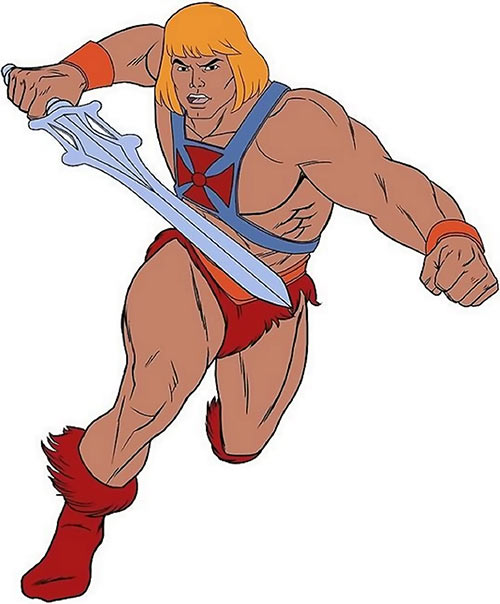
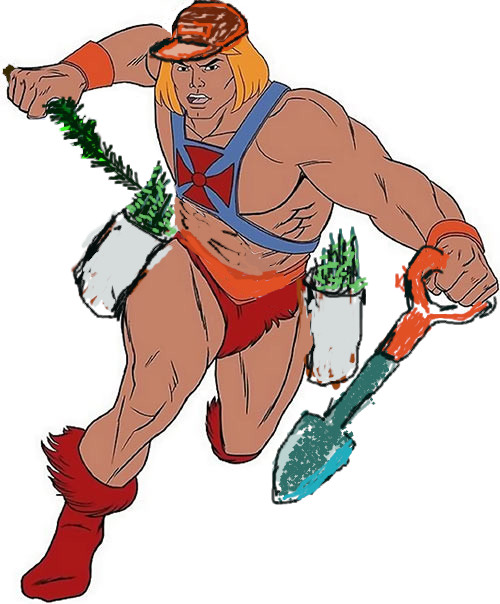
Step-by-step Tally animation is functional

Changed region(s): [[0.06, 0.149, 1.0, 0.8344], [0.3, 0.0, 0.51, 0.1192], [0.0, 0.0894, 0.03, 0.149]]

diff --git a/client/src/components/MainList/MainList.jsx b/client/src/components/MainList/MainList.jsx
@@ -133,10 +133,6 @@ class MainList extends Component {
             fitness={this.state.fitness}
             mandatoryTallyFunction={this.mandatoryTally}
           ></Tally>
-          // I need information from tally
-          // I need to create information in child whi
-          // A function that has a true or false in tally
-          // The
         )}
         <table className="full-list__table">
           <thead className="full-list__header">
@@ -147,13 +143,16 @@ class MainList extends Component {
                 <FaRegHandshake size="1.5em" color="red" /> A BETTER WORKPLACE
               </th>
               <th className="full-list__column--priority">PRIORITY</th>
-              <th className="full-list__column--watched">WATCHED</th>
+              <th className="full-list__column--watched">WATCHED ?</th>
             </tr>
           </thead>
-          <tbody className="full-list__body-wrap--workplace">
+          {/* <tbody className="full-list__body-wrap--workplace"> */}
+            <tbody className={this.mandatoryTally(this.state.aBetterWorkplace)>=3 ? "full-list__body-wrap--workplace" : "full-list__body-wrap--workplace full-list__body-wrap--workplace--hidden"}>
+          {/* <tbody className={this.mandatoryTally(this.state.aBetterWorkplace)>=3 ? "full-list__body-wrap--first-aid" : "full-list__body-wrap--first-aid full-list__body-wrap--first-aid--hidden"}> */}
             {this.state.aBetterWorkplace.map((val) => (
               <tr className="full-list__row" key={val.id}>
-               
+                 {/* <tr className={this.mandatoryTally(this.state.aBetterWorkplace)>=3 ? "full-list__row" key={val.id} : "full-list__row full-list__row--hidden" key={val.id}}> */}
+               {/* <tbody className={this.mandatoryTally(this.state.aBetterWorkplace)>=3 ? "full-list__body-wrap--first-aid" : "full-list__body-wrap--first-aid full-list__body-wrap--first-aid--hidden"}></tbody>  */}
                 <td className="full-list__row--item--mediaType">{val.mediaType}</td>
                 <td className="full-list__row--item--time">{val.min}</td>
                 <td className="full-list__row--item--title">
@@ -180,7 +179,7 @@ class MainList extends Component {
               <th className="full-list__column--time">TIME IN MINUTES</th>
               <th className="full-list__column--title">🚑 FIRST AID</th>
               <th className="full-list__column--priority">PRIORITY</th>
-              <th className="full-list__column--watched">WATCHED</th>
+              <th className="full-list__column--watched">WATCHED ?</th>
             </tr>
             {/* <tbody className="full-list__body-wrap--first-aid"> */}
             {this.state.firstAid.map((val, key) => (
@@ -213,7 +212,7 @@ class MainList extends Component {
               <th className="full-list__column--time">TIME IN MINUTES</th>
               <th className="full-list__column--title">🏊 FITNESS</th>
               <th className="full-list__column--priority">PRIORITY</th>
-              <th className="full-list__column--watched">WATCHED</th>
+              <th className="full-list__column--watched">WATCHED ?</th>
             </tr>
             {/* <tbody className="full-list__body-wrap--fitness"> */}
             {this.state.fitness.map((val, key) => (
@@ -248,7 +247,7 @@ class MainList extends Component {
             firstAid={this.state.firstAid}
             fitness={this.state.fitness}
           ></Tally> */}
-        )}
+        
       </div>
     );
   }

diff --git a/client/src/components/Tally/Tally.js b/client/src/components/Tally/Tally.js
@@ -2,6 +2,17 @@ import React, { Component } from "react";
 import "./Tally.scss";
 import axios from "axios";
 import heMan from "../../assets/images/other/heMan.jpg";
+import no0 from "../../assets/animation/no0.png";
+import no1 from "../../assets/animation/1.png";
+import no2 from "../../assets/animation/no2.png";
+import no3 from "../../assets/animation/no4.png";
+import no4 from "../../assets/animation/no3.png";
+import no5 from "../../assets/animation/no5.png";
+import no6 from "../../assets/animation/no6.png";
+import no7 from "../../assets/animation/no7.png";
+import no8 from "../../assets/animation/no8.png";
+
+
 
 class Tally extends Component {
   state = {};
@@ -91,30 +102,121 @@ class Tally extends Component {
           </p>
         </div>
 
-        {this.state.tally === 7 ? (
+        {this.state.tally === 0 ? (
           <div className="tally__popup">
             <img
               className="tally__image"
-              src={heMan}
+              src={no0}
               alt="descriptive text"
             ></img>
           </div>
         ) : (
           ""
         )}
+
+{this.state.tally === 1 ? (
+          <div className="tally__popup">
+            <img
+              className="tally__image"
+              src={no1}
+              alt="descriptive text"
+            ></img>
+          </div>
+        ) : (
+          ""
+        )}
+
+{this.state.tally === 2 ? (
+          <div className="tally__popup">
+            <img
+              className="tally__image"
+              src={no2}
+              alt="descriptive text"
+            ></img>
+          </div>
+        ) : (
+          ""
+        )}
+
+{this.state.tally === 3 ? (
+          <div className="tally__popup">
+            <img
+              className="tally__image"
+              src={no3}
+              alt="descriptive text"
+            ></img>
+          </div>
+        ) : (
+          ""
+        )}
+
+{this.state.tally === 4 ? (
+          <div className="tally__popup">
+            <img
+              className="tally__image"
+              src={no4}
+              alt="descriptive text"
+            ></img>
+          </div>
+        ) : (
+          ""
+        )}
+
 
 
         {this.state.tally === 5 ? (
           <div className="tally__popup">
             <img
               className="tally__image"
-              src={heMan}
+              src={no5}
               alt="descriptive text"
             ></img>
           </div>
         ) : (
           ""
         )}
+
+{this.state.tally === 6 ? (
+          <div className="tally__popup">
+            <img
+              className="tally__image"
+              src={no6}
+              alt="descriptive text"
+            ></img>
+          </div>
+        ) : (
+          ""
+        )}
+
+
+
+
+        {this.state.tally === 7 ? (
+          <div className="tally__popup">
+            <img
+              className="tally__image"
+              src={no7}
+              alt="descriptive text"
+            ></img>
+          </div>
+        ) : (
+          ""
+        )}
+
+{this.state.tally === 8 ? (
+          <div className="tally__popup">
+            <img
+              className="tally__image"
+              src={no8}
+              alt="descriptive text"
+            ></img>
+          </div>
+        ) : (
+          ""
+        )}
+
+
+        
         {this.state.tally === 9 ? (
           <div className="tally__popup">
             <img

diff --git a/client/src/components/MainList/MainList.scss b/client/src/components/MainList/MainList.scss
@@ -8,15 +8,15 @@
   width: 100vw;
 
   &__table {
-    width: 80vw;
+    width: 90vw;
     border: 2px solid forestgreen;
     border-radius: 4%;
     margin: 3%;
     outline-offset: 2px solid forestgreen;
 
-    outline: 3px dashed red;
+    outline: 3px dashed rgb(35, 58, 42);
     outline-offset: 10px;
-    background: yellow;
+    background: rgb(161, 191, 245);
     border: 1px solid blue;
     margin: 15px;
   }
@@ -35,10 +35,12 @@
     }
   }
   &__column--watched {
-    border-top-right-radius: 4%;
+    border-top-right-radius: 6%;
   }
   
   &__row {
+    &--hidden{
+
   &--item {
     &--mediaType{
       font-size: 4rem;
@@ -54,13 +56,17 @@
       font-size: 3rem;
     }
   }
+}
   }
 
 
   &__body-wrap {
     &--workplace {
       background-image: url("../../assets/images/background/plantingcamp.jpg");
-      height:30rem;
+      &--hidden {
+        height: 30rem;
+      }
+      // height:30rem;
     }
     &--first-aid {
       // display: none;

diff --git a/client/src/components/SiteHeader/SiteHeader.jsx b/client/src/components/SiteHeader/SiteHeader.jsx
@@ -8,8 +8,8 @@ export default function SiteHeader() {
         <header className="page-header">
             <NavLink className="navbar__navLink" to="/"><img className="navbar__logo" src={Logo} alt="TreeSprint Logo"/></NavLink>
             <nav className="navbar">
-                 <NavLink className="navbar__link" activeClassName='navbar__link--selected' to="/warehouses">Warehouses</NavLink>
-                 <NavLink className="navbar__link" activeClassName='navbar__link--selected' to="/inventories">Inventory</NavLink>
+                 <NavLink className="navbar__link" activeClassName='navbar__link--selected' to="/warehouses">Sign In</NavLink>
+                 <NavLink className="navbar__link" activeClassName='navbar__link--selected' to="/inventories">List</NavLink>
             </nav>
         </header>
     )

diff --git a/client/src/components/Checkbox/Checkbox.scss b/client/src/components/Checkbox/Checkbox.scss
@@ -13,7 +13,7 @@
 .checkbox:checked {
   background-color: rgb(214, 255, 173);
   border: 5px solid rgb(24, 32, 9);
-  background-image: url(../../assets/animation/tree.gif);
+  background-image: url(../../assets/images/icons/Shovel.png);
 }
 .checkbox {
   // border-color: chartreuse;
